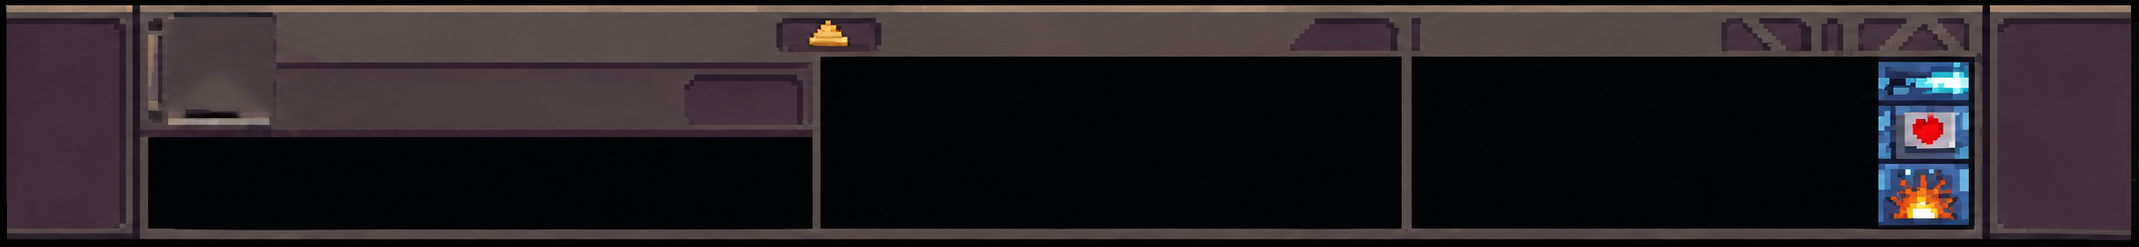
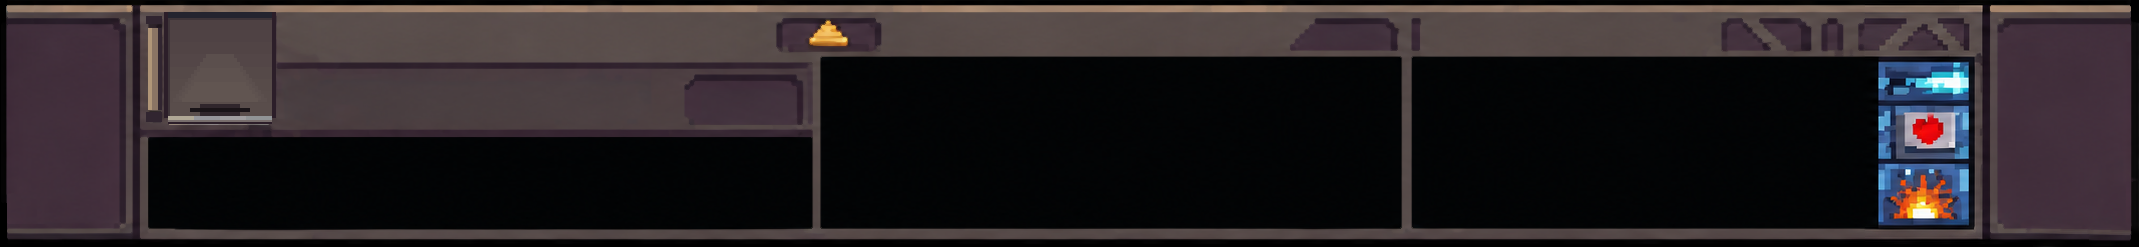
Add files via upload

Changed region(s): [[0.0617, 0.1134, 0.1543, 0.5101], [0.0617, 0.0567, 0.1234, 0.085]]

diff --git a/src/Partida.cpp b/src/Partida.cpp
@@ -1,6 +1,7 @@
 #include "Partida.h"
 #include "ranking.h"
 #include "seleccionPersonaje.h"
+#include "menuPrincipal.h"
 
 using namespace std;
 using namespace sf;
@@ -44,10 +45,9 @@ bool Partida::cargarRecursos() {
 }
 
 bool Personaje::cargarTexturasPersonajes() {
-    if(!textura.loadFromFile(rutaImagenes[FOTO])) return false;
-    if(!texturaIdle.loadFromFile(rutaImagenes[IDLE])) return false;
-    if(!texturaDanio.loadFromFile(rutaImagenes[ANIMDANIO])) return false;
-    if(!texturaHabilidad.loadFromFile(rutaImagenes[ANIMHABILIDAD])) return false;
+    for (int i = 0;i < CANT_TEXTURAS; i++){
+        if(!vecTexturas[i].loadFromFile(rutaImagenes[i])) return false;
+    }
     return true;
 }
 
@@ -157,7 +157,7 @@ bool Partida::inicializarTablero(RenderWindow& window) {
 
     Vector2u tamVentana = Vector2u(window.getView().getSize());
 
-    spritePersonaje.emplace(personaje->getTexturaIdle());
+    spritePersonaje.emplace(personaje->getTextura(IDLE));
     spritePersonaje->setScale({1.5f, 1.5f});
     spritePersonaje->setOrigin({32.f, 60.f});
     fondo.emplace(texturaFondo);
@@ -255,6 +255,9 @@ bool Partida::inicializarTablero(RenderWindow& window) {
     hud->setScale({1920.f / tamHud.x, 250.f / tamHud.y});
     hud->setPosition({0, 830.f});
 
+    spritePersonajeHud.emplace(personaje->getTextura(HUD));
+    spritePersonajeHud->setPosition(Vector2f(150, tamVentana.y - 250));
+
     bombaHud.emplace(texturaBomba);
     bombaHud->setScale({escalaX * 0.7f, escalaY * 0.7f});
     bombaHud->setPosition(Vector2f(550, tamVentana.y - 70));
@@ -288,7 +291,7 @@ bool Partida::inicializarTablero(RenderWindow& window) {
     textoStatus.emplace(font, "ESTADO", 36);
     textoStatus->setPosition(Vector2f(800, tamVentana.y - 240));
 
-        textoCommands.emplace(font, "COMANDOS", 36);
+    textoCommands.emplace(font, "COMANDOS", 36);
     textoCommands->setPosition(Vector2f(1280, tamVentana.y - 240));
 
     string comandos[4] = {"E - Habilidad", "B - Bandera", "R - Revelar", "WASD - Mover"};
@@ -399,23 +402,24 @@ void Partida::ejecutar(RenderWindow& window, const string& usuario) {
         window.draw(*fondo);
 
         window.draw(*hud);
+        window.draw(*spritePersonajeHud);
         window.draw(*textoTimer);
         window.draw(*bombaHud);
         window.draw(*textoCantidadBombas);
         window.draw(*vidaHud);
-        window.draw(*textoVidaActual);
+        dibujarConSombra(window, *textoVidaActual, 3.f);
         window.draw(*armaduraHud);
-        window.draw(*textoArmaduraActual);
-        window.draw(*textoStatus);
-        window.draw(*textoCommands);
-
+        dibujarConSombra(window, *textoArmaduraActual, 3.f);
+        dibujarConSombra(window, *textoStatus, 3.f);
+        dibujarConSombra(window, *textoCommands, 3.f);
         for (int i = 0; i < vecTextoCommands.size(); i++) {
             window.draw(vecTextoCommands[i]);
         }
 
-        window.draw(*textoPersonaje);
-        window.draw(*textoHablidad);
-        window.draw(*textoPasiva);
+        dibujarConSombra(window, *textoPersonaje, 3.f);
+        dibujarConSombra(window, *textoHablidad, 3.f);
+        dibujarConSombra(window, *textoPasiva, 3.f);
+
 
         for (const auto& b : bombas) window.draw(b);
 
@@ -468,16 +472,16 @@ void Partida::ejecutar(RenderWindow& window, const string& usuario) {
         }
 
         if (mostrandoDanio) {
-            spritePersonaje->setTexture(personaje->getTexturaDanio());
+            spritePersonaje->setTexture(personaje->getTextura(ANIMDANIO));
             spritePersonaje->setTextureRect(IntRect({frame * 64, 0}, {64, 64}));
             spritePersonaje->setOrigin({32.f, 60.f});
         } else if (mostrandoHabilidad) {
-            spritePersonaje->setTexture(personaje->getTexturaHabilidad());
+            spritePersonaje->setTexture(personaje->getTextura(ANIMHABILIDAD));
             spritePersonaje->setTextureRect(IntRect({frame * 96, 0}, {96, 96}));
             spritePersonaje->setOrigin({48.f, 84.f});
         } else {
             frame = (int)(relojAnim.getElapsedTime().asSeconds() / 0.5f) % 2;
-            spritePersonaje->setTexture(personaje->getTexturaIdle());
+            spritePersonaje->setTexture(personaje->getTextura(IDLE));
             spritePersonaje->setTextureRect(IntRect({frame * 64, 0}, {64, 64}));
             spritePersonaje->setOrigin({32.f, 60.f});
         }

diff --git a/src/seleccionPersonaje.cpp b/src/seleccionPersonaje.cpp
@@ -1,4 +1,5 @@
 #include "seleccionPersonaje.h"
+#include "menuPrincipal.h"
 #include "partida.h"
 #include <SFML/Graphics.hpp>
 #include <vector>
@@ -37,9 +38,7 @@ int Personaje::getArmadura() const{
 void Personaje::setArmadura(int arm){
     armadura = arm;
 }
-void Personaje::setTextura(Texture nuevaTextura){
-    texturaIdle = nuevaTextura;
-}
+
 
 void Personaje::setVida(int v){
     vida = v;
@@ -54,18 +53,10 @@ bool Personaje::usarHabilidad(){
 Color Personaje::getColor(ColoresPersonaje color) const {
     return vecColores[color];
 }
-const Texture& Personaje::getTextura() const {
-    return textura;
+const Texture& Personaje::getTextura(TexturasPersonaje tipo) const {
+    return vecTexturas[tipo];
 }
-const Texture& Personaje::getTexturaIdle() const {
-    return texturaIdle;
-}
-const Texture& Personaje::getTexturaDanio() const {
-    return texturaDanio;
-}
-const Texture& Personaje::getTexturaHabilidad() const {
-    return texturaHabilidad;
-}
+
 int Personaje::getContadorHabilidad() const {
     return contadorHabilidad;
 }
@@ -202,7 +193,7 @@ Personaje* seleccionPersonaje(RenderWindow& window) {
     Color colorHover(210, 75, 30);
     Color colorBorde(255, 180, 100);
 
-    float anchoBoton = 950.f, altoBoton = 250.f;
+    float anchoBoton = 800.f, altoBoton = 250.f;
     float margen = 20.f;
     float anchoImg = altoBoton - (margen * 2.f);
     float altoImg = altoBoton - (margen * 2.f);
@@ -225,16 +216,16 @@ Personaje* seleccionPersonaje(RenderWindow& window) {
         boton.setFillColor(colorNormal);
         botones.push_back(boton);
 
-        Text nombre(font, personajes[i]->getTexto(NOMBRE), 26);
+        Text nombre(font, personajes[i]->getTexto(NOMBRE), 34);
         nombre.setPosition(Vector2f(xBoton + anchoImg + (margen * 2.f), y + margen));
         nombres.push_back(nombre);
 
-        Text desc(fontText, personajes[i]->getTexto(DESCRIPCION), 18);
+        Text desc(fontText, personajes[i]->getTexto(DESCRIPCION), 22);
         desc.setPosition(Vector2f(xBoton + anchoImg + (margen * 2.f), y + margen + 38.f));
         descripciones.push_back(desc);
 
-        Sprite sprite(personajes[i]->getTextura());
-        Vector2u tam = personajes[i]->getTextura().getSize();
+        Sprite sprite(personajes[i]->getTextura(FOTO));
+        Vector2u tam = personajes[i]->getTextura(FOTO).getSize();
         sprite.setScale(Vector2f(anchoImg / tam.x, altoImg / tam.y));
         sprite.setPosition(Vector2f(xBoton + margen, y + margen));
         sprites.push_back(sprite);
@@ -278,6 +269,7 @@ Personaje* seleccionPersonaje(RenderWindow& window) {
                 botones[i].setFillColor(colorHover);
                 botones[i].setOutlineColor(colorBorde);
                 botones[i].setOutlineThickness(3.f);
+
             } else {
                 botones[i].setFillColor(colorNormal);
                 botones[i].setOutlineThickness(0.f);
@@ -289,10 +281,12 @@ Personaje* seleccionPersonaje(RenderWindow& window) {
         window.draw(capaOscura);
 
         for (size_t i = 0; i < botones.size(); i++) {
+
             window.draw(botones[i]);
             window.draw(sprites[i]);
-            window.draw(nombres[i]);
-            window.draw(descripciones[i]);
+            dibujarConSombra(window, nombres[i], 2.f);
+            dibujarConSombra(window, descripciones[i], 2.f);
+
         }
         window.display();
     }

diff --git a/src/menuPrincipal.cpp b/src/menuPrincipal.cpp
@@ -137,8 +137,8 @@ void menuPrincipal::inicializarComponentes(RenderWindow& window) {
 
     Color colorBtn(255, 107, 53);
 
-    float anchoBoton = 340.f;
-    float altoBoton = 65.f;
+    float anchoBoton = 400.f;
+    float altoBoton = 75.f;
     float espaciado = altoBoton + 20.f;
 
     fondo.emplace(texturaFondo);
@@ -149,11 +149,11 @@ void menuPrincipal::inicializarComponentes(RenderWindow& window) {
     ));
     fondo->setPosition(Vector2f(0,0));
 
-     titulo.emplace(font, "MINESWEEPER:", 96);
+     titulo.emplace(font, "MINESWEEPER:", 120);
     titulo->setPosition(Vector2f((tamVentana.x - titulo->getGlobalBounds().size.x) / 2.f, tamVentana.y * 0.10f));
 
-    titulo2.emplace(font, "ELEMENTAL TACTICS", 60);
-    titulo2->setPosition(Vector2f((tamVentana.x - titulo2->getGlobalBounds().size.x) / 2.f, titulo->getPosition().y + 105.f));
+    titulo2.emplace(font, "ELEMENTAL TACTICS", 80);
+    titulo2->setPosition(Vector2f((tamVentana.x - titulo2->getGlobalBounds().size.x) / 2.f, titulo->getPosition().y + 120.f));
 
     float inicioY = titulo2->getPosition().y + 150.f;
 
@@ -255,7 +255,7 @@ void menuPrincipal::ejecutar(RenderWindow& window) {
                 if (mouseButton->button == Mouse::Button::Left) {
                     Vector2f mousePos = window.mapPixelToCoords(mouseButton->position);
 
-                                       if (btnLogin->getGlobalBounds().contains(mousePos)) {
+                    if (btnLogin->getGlobalBounds().contains(mousePos)) {
                         cout << "Abriendo Login..." << endl;
                         registroUsuario ui;
                         if (ui.mostrarLogin(window)) {
@@ -305,7 +305,7 @@ void menuPrincipal::ejecutar(RenderWindow& window) {
             }
         }
 
-        window.clear(Color(24, 33, 43));
+        window.clear();
 
         window.draw(*fondo);
 

diff --git a/include/seleccionPersonaje.h b/include/seleccionPersonaje.h
@@ -22,10 +22,7 @@ protected:
 
     string rutaImagenes[CANT_TEXTURAS];
 
-    Texture textura;
-    Texture texturaIdle;
-    Texture texturaDanio;
-    Texture texturaHabilidad;
+    Texture vecTexturas[CANT_TEXTURAS];
 
     Color vecColores[CANT_COLORES];
 public:
@@ -34,10 +31,7 @@ public:
     string getTexto(TextoPersonaje tipo) const;
     int getVida() const;
     int getArmadura() const;
-    const Texture& getTextura() const;
-    const Texture& getTexturaIdle() const;
-    const Texture& getTexturaDanio() const;
-    const Texture& getTexturaHabilidad() const;
+    const Texture& getTextura(TexturasPersonaje tipo) const;
 
     ///setters
     void setArmadura(int arm);

diff --git a/include/Partida.h b/include/Partida.h
@@ -47,6 +47,7 @@ private:
     optional<Sprite> vidaHud;
     optional<Sprite> armaduraHud;
     optional<Sprite> spritePersonaje;
+    optional<Sprite> spritePersonajeHud;
     optional<Text> textoTimer;
     optional<Text> textoCantidadBombas;
     optional<Text> textoVidaActual;
